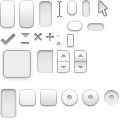
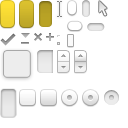
+ New buttons in main menu + Added basic Menu style + Additional parameters in Gorillas.java state initialisation + Added new font + Added menu background # Edited gui.png

Changed region(s): [[0.0, 0.0, 0.4062, 0.2188]]

diff --git a/src/de/tu_darmstadt/gdi1/gorillas/ui/states/MainMenuState.java b/src/de/tu_darmstadt/gdi1/gorillas/ui/states/MainMenuState.java
@@ -1,33 +1,56 @@
 package de.tu_darmstadt.gdi1.gorillas.ui.states;
 
+import org.newdawn.slick.AppGameContainer;
 import org.newdawn.slick.GameContainer;
 import org.newdawn.slick.Graphics;
+import org.newdawn.slick.Image;
 import org.newdawn.slick.SlickException;
+import org.newdawn.slick.geom.Vector2f;
 import org.newdawn.slick.state.StateBasedGame;
 
 import de.matthiasmann.twl.Button;
 import de.matthiasmann.twl.slick.BasicTWLGameState;
 import de.matthiasmann.twl.slick.RootPane;
+import de.tu_darmstadt.gdi1.gorillas.main.Gorillas;
+import eea.engine.component.render.ImageRenderComponent;
+import eea.engine.entity.Entity;
 import eea.engine.entity.StateBasedEntityManager;
+
 
 public class MainMenuState extends BasicTWLGameState {
 
+
 	private int stateID;
 	private StateBasedEntityManager entityManager;
+	private AppGameContainer gc;
+	private Gorillas sb;
+	
+	private Button startGameButton;
+	private Button optionsButton;
+	private Button highscoreButton;
+	private Button exitButton;
+	
 
-	private Button newGameButton;
-
-	public MainMenuState(int sid) {
+	public MainMenuState(int sid, AppGameContainer gameContainer, Gorillas gameState) {
 		stateID = sid;
 		entityManager = StateBasedEntityManager.getInstance();
+		gc = gameContainer;
+		sb = gameState;
 	}
 
 	@Override
 	public void init(GameContainer container, StateBasedGame game)
 			throws SlickException {
-		// TODO Auto-generated method stub
+		
+		Entity background = new Entity("menu"); // 
+		background.setPosition(new Vector2f(400, 300)); 
+																
+		background.addComponent(new ImageRenderComponent(new Image(
+					"/assets/gorillas/background/background.png"))); 
+
+		entityManager.addEntity(stateID, background);
 	}
-	
+
 	@Override
 	public void update(GameContainer container, StateBasedGame game, int delta)
 			throws SlickException {
@@ -52,14 +75,50 @@ public class MainMenuState extends BasicTWLGameState {
 
 		RootPane rp = super.createRootPane();
 
-		newGameButton = new Button();
-		newGameButton.addCallback(new Runnable() {
+		
+		startGameButton = new Button("START");
+		startGameButton.setTheme("menu_button");
+		startGameButton.addCallback(new Runnable() {
 			public void run() {
-				// TODO: Enter next state
+				
+				sb.enterState(Gorillas.GAMESETUPSTATE);
+				
 			}
 		});
+		
+		optionsButton = new Button("OPTIONS");
+		optionsButton.setTheme("menu_button");
+		optionsButton.addCallback(new Runnable() {
+			public void run() {
+				
+				sb.enterState(Gorillas.OPTIONSTATE);
 
-		rp.add(newGameButton);
+			}
+		});
+		
+		highscoreButton = new Button("HIGHSCORES");
+		highscoreButton.setTheme("menu_button");
+		highscoreButton.addCallback(new Runnable() {
+			public void run() {
+				
+				sb.enterState(Gorillas.HIGHSCORESTATE);
+
+			}
+		});
+		
+		exitButton = new Button("EXIT");
+		exitButton.setTheme("menu_button");
+		exitButton.addCallback(new Runnable() {
+			public void run() {
+				System.exit(0);
+			}
+		});
+		
+
+		rp.add(startGameButton);
+		rp.add(optionsButton);
+		rp.add(highscoreButton);
+		rp.add(exitButton);
 		return rp;
 	}
 
@@ -69,8 +128,21 @@ public class MainMenuState extends BasicTWLGameState {
 		int paneHeight = this.getRootPane().getHeight();
 		int paneWidth = this.getRootPane().getWidth();
 
-		newGameButton.adjustSize();
-		newGameButton.setPosition(paneWidth / 2 - newGameButton.getWidth() / 2,
-				paneHeight / 2 - newGameButton.getHeight() / 2);
+		
+		startGameButton.setSize(paneWidth / 4, paneHeight / 12);
+		startGameButton.setPosition(paneWidth / 2 - startGameButton.getWidth() / 2,
+				paneHeight / 2 - (startGameButton.getHeight() / 2) - (paneHeight / 4));
+		
+		optionsButton.setSize(paneWidth / 4, paneHeight / 12);
+		optionsButton.setPosition(paneWidth / 2 - optionsButton.getWidth() / 2,
+				paneHeight / 2 - (optionsButton.getHeight() / 2) - (paneHeight / 8));
+		
+		highscoreButton.setSize((int)(paneWidth / 2.8f), paneHeight / 12);
+		highscoreButton.setPosition(paneWidth / 2 - highscoreButton.getWidth() / 2,
+				paneHeight / 2 - (highscoreButton.getHeight() / 2));
+		
+		exitButton.setSize(paneWidth / 4, paneHeight / 12);
+		exitButton.setPosition(paneWidth / 2 - exitButton.getWidth() / 2,
+				paneHeight / 2 - (exitButton.getHeight() / 2) + (paneHeight / 8));
 	}
 }

diff --git a/src/de/tu_darmstadt/gdi1/gorillas/main/Gorillas.java b/src/de/tu_darmstadt/gdi1/gorillas/main/Gorillas.java
@@ -35,6 +35,8 @@ public class Gorillas extends TWLStateBasedGame {
 	public static final int TARGET_FRAME_RATE = 120;
 
 	public static boolean debug = false;
+	
+	static AppGameContainer app;
 
 	public Gorillas(boolean debug) {
 		super("Gorillas");
@@ -70,7 +72,7 @@ public class Gorillas extends TWLStateBasedGame {
 		// @formatter:on
 
 		// Insert this StateBasedGame into an AppContainer (a window)
-		AppGameContainer app = new AppGameContainer(new Gorillas(false));
+		app = new AppGameContainer(new Gorillas(false));
 
 		// Set window properties and start it
 		app.setShowFPS(false);
@@ -84,7 +86,7 @@ public class Gorillas extends TWLStateBasedGame {
 			throws SlickException {
 
 		// Add states to the StateBasedGame
-		this.addState(new MainMenuState(MAINMENUSTATE));	
+		this.addState(new MainMenuState(MAINMENUSTATE, app, this));	// Added new parameters which are used in the states
 		/*this.addState(new GameSetupState(GAMESETUPSTATE));	// TODO: Missing constructor in States with (int ID)
 		this.addState(new HighScoreState(HIGHSCORESTATE));
 		this.addState(new OptionsState(OPTIONSTATE));
